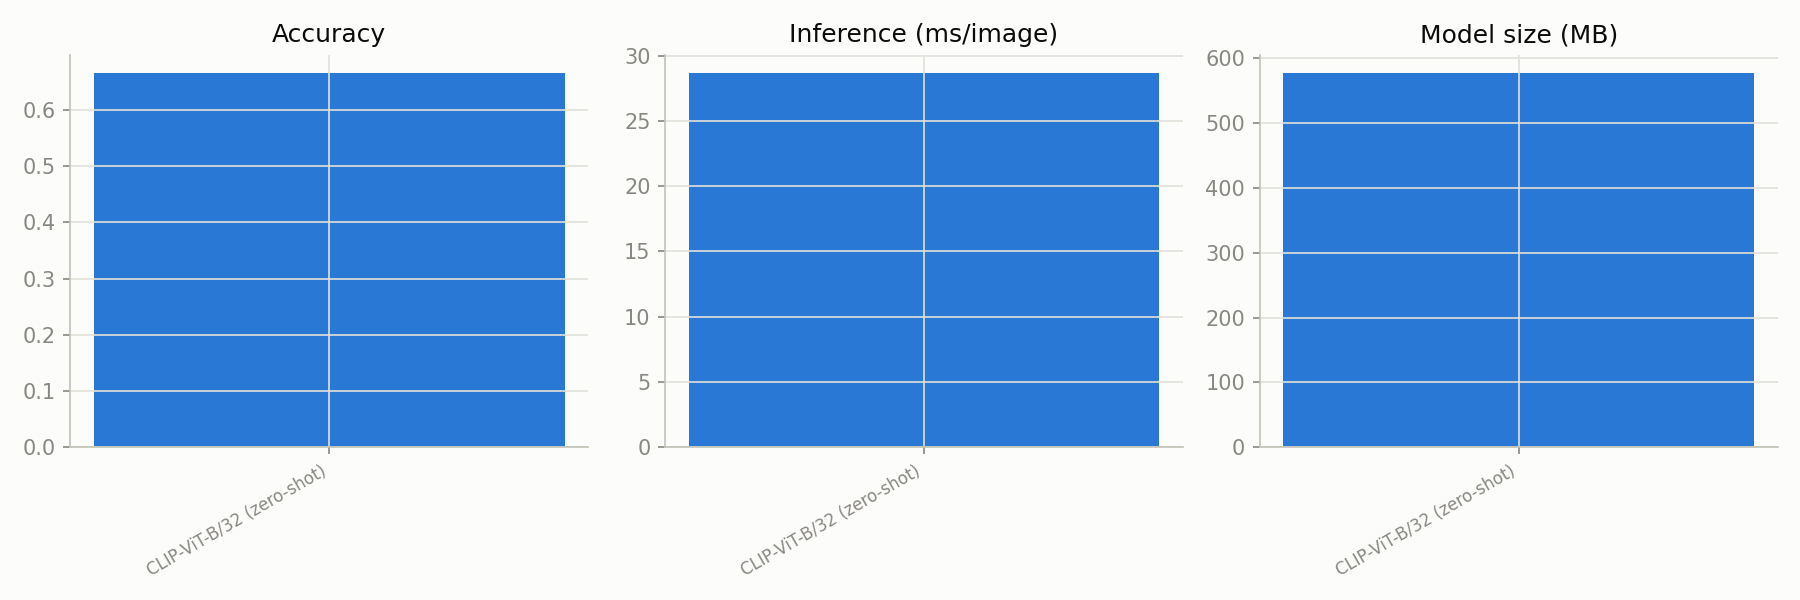
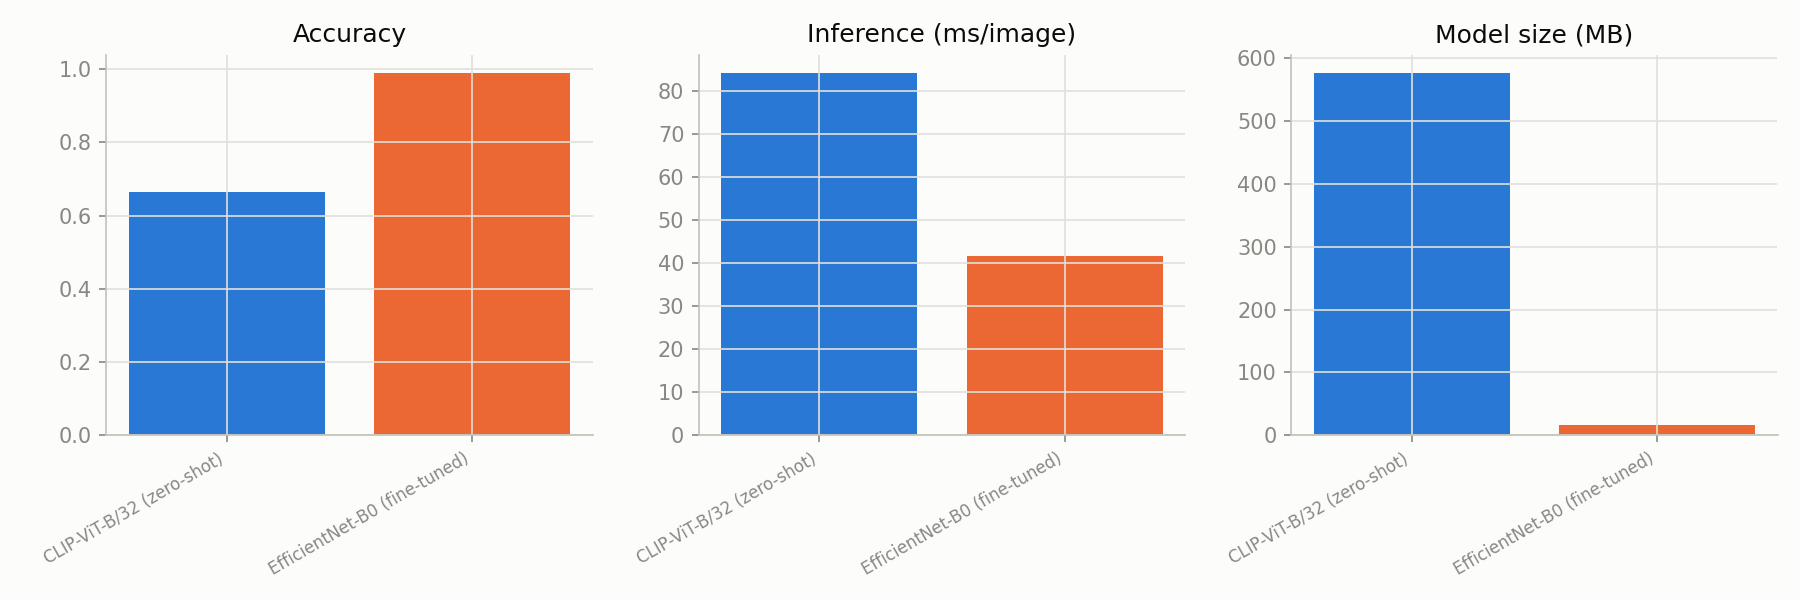
Dosyaya göre skor güncellemesi

diff --git a/generalization_tests.py b/generalization_tests.py
@@ -182,11 +182,13 @@ def run_compare():
         print("Hiç *_metrics.json bulunamadı; önce clip.ipynb'yi çalıştırın.")
         return []
 
-    header = f"{'model':30s} {'accuracy':>10s} {'ms/image':>10s} {'size (MB)':>10s}"
+    header = f"{'model':30s} {'accuracy':>10s} {'ms/image':>10s} {'size (MB)':>10s} {'final score':>12s}"
     print(header)
     for r in rows:
+        final_score = r.get("competition_score", {}).get("final_score")
+        final_score_str = f"{final_score:.2f}" if final_score is not None else "n/a"
         print(f"{r.get('model_name', ''):30s} {r.get('accuracy', 0):10.4f} "
-              f"{r.get('inference_ms_per_image', 0):10.2f} {r.get('model_size_mb', 0):10.2f}")
+              f"{r.get('inference_ms_per_image', 0):10.2f} {r.get('model_size_mb', 0):10.2f} {final_score_str:>12s}")
 
     others = [r for r in rows if "CLIP" not in r.get("model_name", "")]
     if not others:
@@ -212,12 +214,14 @@ def run_compare():
     plt.savefig(RESULTS_DIR / "comparison_chart.png", dpi=150, facecolor=STYLE["surface"])
     plt.close(fig)
 
-    fieldnames = ["model_name", "accuracy", "inference_ms_per_image", "model_size_mb", "device"]
+    fieldnames = ["model_name", "accuracy", "inference_ms_per_image", "model_size_mb", "device", "final_score"]
     with open(RESULTS_DIR / "comparison_table.csv", "w", newline="") as f:
         writer = csv.DictWriter(f, fieldnames=fieldnames)
         writer.writeheader()
         for r in rows:
-            writer.writerow({k: r.get(k, "") for k in fieldnames})
+            row = {k: r.get(k, "") for k in fieldnames if k != "final_score"}
+            row["final_score"] = r.get("competition_score", {}).get("final_score", "")
+            writer.writerow(row)
 
     print("Kaydedildi: results/comparison_table.csv, results/comparison_chart.png")
     return rows

diff --git a/results/GENERALIZATION_REPORT.md b/results/GENERALIZATION_REPORT.md
@@ -28,9 +28,17 @@ Tüm deneyler `clip.ipynb` ve `generalization_tests.py` içinde yeniden
   jpeg_compression, occlusion) × 5 şiddet seviyesi (1=hafif, 5=şiddetli)
   uygulanarak zero-shot accuracy ölçüldü (bkz. `src/corruptions.py`).
 - **Metrikler:** accuracy, inference hızı (ms/görüntü, batch_size=1, warm-up
-  sonrası ortalama), model boyutu (parametre belleği, MB) —
+  sonrası ortalama, **CPU'da** ölçülür), model boyutu (parametre belleği, MB) —
   `results/clip_metrics.json` şeması diğer takım üyelerinin `evaluate.py`
   çıktısıyla aynıdır, böylece `--task compare` ile otomatik birleştirilebilir.
+- **Yarışma skorlama formülü** (`Flower_Recognition_Competition_Guidelines_v1.pdf`'den):
+  `FINAL SCORE = 0.60×Accuracy(%) + 0.25×Speed_score + 0.15×Size_score`, burada
+  `Speed_score = min(100, Tmax/T × 100)` (Tmax=50 ms, GPU'suz Intel i7 + 16GB RAM
+  üzerinde ölçülecek) ve `Size_score = min(100, Smax/S × 100)` (Smax=35 MB). Bu
+  formül `clip.ipynb` ve `generalization_tests.py --task compare` içinde
+  otomatik hesaplanıyor. **Inference hızı bu yüzden CPU'da ölçüldü** (ilk
+  denemede yanlışlıkla Apple GPU'da (`mps`) ölçülmüştü; bu değer de bilgi
+  amaçlı `inference_ms_per_image_mps` alanında saklanıyor).
 
 ## Sonuçlar
 
@@ -85,24 +93,24 @@ rotasyon/sıkıştırmadan çok daha kritik bir risk faktörü.
 
 ### Ana modellerle karşılaştırma (`results/comparison_table.csv/png`)
 
-| Model | Accuracy | ms/görüntü | Boyut (MB) |
-|---|---|---|---|
-| CLIP-ViT-B/32 (zero-shot) | 0.6654 | ~30-40 (MPS, run'lar arası değişken) | 577.08 |
-| EfficientNet-B0 (1. kişi) | *bekleniyor* | | |
-| MobileNetV3 (2. kişi) | *bekleniyor* | | |
-| EfficientNetV2-S (4. kişi) | *bekleniyor* | | |
+| Model | Accuracy | ms/görüntü (CPU) | Boyut (MB) | Final Score* |
+|---|---|---|---|---|
+| CLIP-ViT-B/32 (zero-shot) | 0.6654 | 84.30 | 577.08 | **55.66** |
+| EfficientNet-B0 (1. kişi, fine-tuned) | 0.9902 | 41.60 | 16.07 | **99.41** |
+| MobileNetV3 (2. kişi) | *bekleniyor* | | | |
+| EfficientNetV2-S (4. kişi) | *bekleniyor* | | | |
+
+\* `FINAL SCORE = 0.60×Accuracy(%) + 0.25×Speed_score + 0.15×Size_score` (Tmax=50ms, Smax=35MB — bkz. Yöntem). EfficientNet-B0 için skor, `efficientnet_b0_metrics.json`'daki accuracy/hız/boyut değerleri kullanılarak aynı formülle elle hesaplandı (dosyada `competition_score` alanı henüz yok).
 
 Diğer takım üyelerinin `results/<model>_metrics.json` dosyaları (aynı şema)
 eklendiğinde, `python generalization_tests.py --task compare` tekrar
 çalıştırılarak tam karşılaştırma tablosu ve grafiği otomatik üretilir.
 
-CLIP'in model boyutu (577 MB), hafif mimarilere (tipik 15-20 MB) kıyasla
-**~30 kat** daha büyük — zero-shot esnekliğinin (sıfır eğitim verisi
-gerektirmemesi) bedeli, boyut ve hız kriterlerinde dezavantaj.
-
-*Not: `inference_ms_per_image` değeri, MPS (Apple Silicon GPU) üzerinde
-run'dan run'a ~10-15 ms değişkenlik gösterebiliyor (sistem yüküne bağlı);
-güncel değer için `results/clip_metrics.json`'a bakın.*
+CLIP'in model boyutu (577 MB), EfficientNet-B0'a (16 MB) kıyasla **~36 kat**
+daha büyük ve hız olarak da ~2x daha yavaş — yarışma formülüyle CLIP sadece
+**55.66/100** alırken EfficientNet-B0 **99.41/100** alıyor. Bu beklenen bir
+sonuç: EfficientNet-B0 bu 102 sınıf için özel olarak fine-tune edildi ve
+hafif bir mimari, CLIP ise hiç eğitilmeden genel amaçlı bir model.
 
 ## Değerlendirme ve Öneriler
 
@@ -120,3 +128,11 @@ güncel değer için `results/clip_metrics.json`'a bakın.*
 4. **Few-shot bulgusu**: çok az etiketli veri olan senaryolarda (k≥2) CLIP
    tabanlı linear probe, hızlı ve ucuz bir alternatif olabilir; ama k=1 ile
    güvenilir değil.
+5. **CLIP, takımın yarışmaya gönderilecek asıl modeli değil**: PDF'deki
+   "students must submit a model that can be loaded and evaluated using the
+   instructor's required interface" kuralı muhtemelen 2. kişinin
+   `predict.py`/final paketine işaret ediyor. CLIP burada bir genelleme/analiz
+   çalışması; yarışma formülüyle puanlandığında (55.66/100) EfficientNet-B0'ın
+   (99.41/100) gerisinde kalması beklenen ve sorunlu olmayan bir sonuç —
+   CLIP'in katkısı accuracy/hız/boyut yarışında değil, genelleme ve
+   dayanıklılık analizinde.
